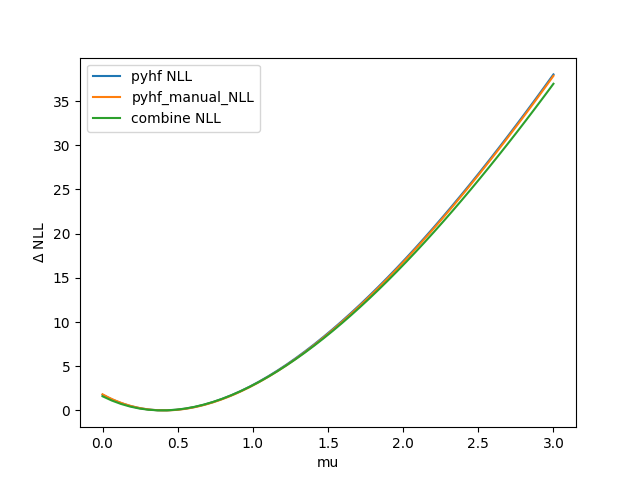
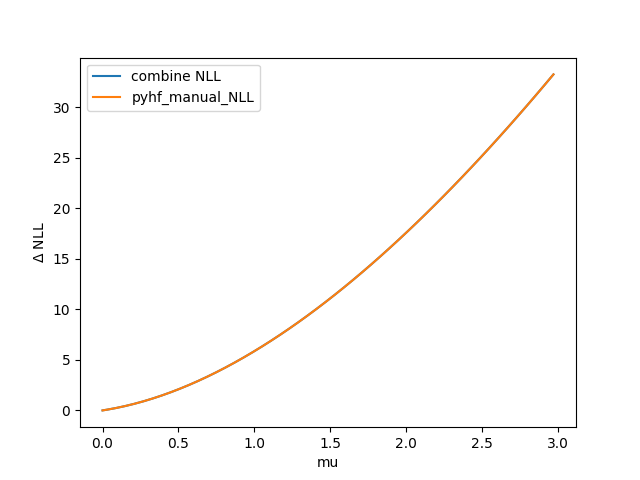
matching NLL plots

diff --git a/Converters/pyhf_convert_to_datacard.py b/Converters/pyhf_convert_to_datacard.py
@@ -66,12 +66,12 @@ def addChannels():
             h_data[...] = np.stack(
                 [
                     spec["observations"][idxc]["data"],
-                    [0 for i in range(channel_bins[channel])],
+                    [0 for i in range(channel_bins[channel["name"]])],
                 ],
                 axis=-1,
             )
             
-            file[channel+ "/data_obs"] = h_data
+            file[channel["name"]+ "/data_obs"] = h_data
 
 
 def addSamples():
@@ -85,7 +85,7 @@ def addSamples():
                     }
                 )
         else:  ##shapes
-            DC.shapeMap.update({channel: {}})
+            DC.shapeMap.update({channel["name"]: {}})
             DC.hasShapes = True
             for idxs, sample in enumerate(channel["samples"]):
                 DC.exp[channel["name"]].update(
@@ -96,31 +96,31 @@ def addSamples():
                     for i, mod in enumerate(spec["channels"][idxc]["samples"][idxs]["modifiers"])
                 ]
                 if "histosys" in mods:
-                    DC.shapeMap[channel].update(
+                    DC.shapeMap[channel["name"]].update(
                         {
                             spec["channels"][idxc]["samples"][idxs]["name"]: [
                                 options.shapefile,
-                                channel+
+                                channel["name"]+
                                 "/" + spec["channels"][idxc]["samples"][idxs]["name"],
-                                channel+
+                                channel["name"]+
                                 "/" + spec["channels"][idxc]["samples"][idxs]["name"]
                                 + "_$SYSTEMATIC",
                             ]
                         }    
                     )
                 else:
-                    DC.shapeMap[channel].update(
+                    DC.shapeMap[channel["name"]].update(
                         {
                             spec["channels"][idxc]["samples"][idxs]["name"]: [
                                 options.shapeFile,
-                                channel+
+                                channel["name"]+
                                 "/" + spec["channels"][idxc]["samples"][idxs]["name"]
                                 ]
                         }
                     )
                 if "staterror" in mods:
                     h_data = hist.Hist.new.Regular(
-                        channel_bins[channel], 0, channel_bins[channel]
+                        channel_bins[channel["name"]], 0, channel_bins[channel["name"]]
                     ).Weight()
                     h_data[...] = np.stack(
                         [
@@ -131,10 +131,10 @@ def addSamples():
                         ],
                         axis=-1,
                     )
-                    DC.binParFlags.update({channel : True})
+                    DC.binParFlags.update({channel["name"] : True})
                 elif "shapesys" in mods:
                     h_data = hist.Hist.new.Regular(
-                        channel_bins[channel], 0, channel_bins[channel]
+                        channel_bins[channel["name"]], 0, channel_bins[channel["name"]]
                     ).Weight()
                     h_data[...] = np.stack(
                         [
@@ -145,19 +145,19 @@ def addSamples():
                         ],
                         axis=-1,
                     )
-                    DC.binParFlags.update({channel : True})
+                    DC.binParFlags.update({channel["name"] : True})
                 else:
                     h_data = hist.Hist.new.Regular(
-                        channel_bins[channel], 0, channel_bins[channel]
+                        channel_bins[channel["name"]], 0, channel_bins[channel["name"]]
                     ).Weight()
                     h_data[...] = np.stack(
                         [
                             spec["channels"][idxc]["samples"][idxs]["data"],
-                            [0 for i in range(channel_bins[channel])],
+                            [0 for i in range(channel_bins[channel["name"]])],
                         ],
                         axis=-1,
                     )
-                file[channel+  "/" + spec["channels"][idxc]["samples"][idxs]["name"]] = h_data
+                file[channel["name"]+  "/" + spec["channels"][idxc]["samples"][idxs]["name"]] = h_data
 
 
 def addMods():
@@ -191,7 +191,7 @@ def addMods():
                             {sample["name"]: str(mods[names.index(name)]["data"]["lo"]) + "/" + str(mods[names.index(name)]["data"]["hi"])} ##asymmetric lnN
                         )
                     if "shape" in type:
-                        syst[4][channel["name"]].update({sample: 1.0})
+                        syst[4][channel["name"]].update({sample["name"]: 1.0})
                         hi_data = hist.Hist.new.Regular(
                         channel_bins[channel["name"]], 0, channel_bins[channel["name"]]
                         ).Weight()
@@ -212,8 +212,8 @@ def addMods():
                         ],
                         axis=-1,
                         )
-                        file[channel+  "/" + spec["channels"][idxc]["samples"][idxs]["name"] + "_" + name + "Up"] = hi_data
-                        file[channel+  "/" + spec["channels"][idxc]["samples"][idxs]["name"] + "_" + name + "Down"] = lo_data
+                        file[channel["name"]+  "/" + spec["channels"][idxc]["samples"][idxs]["name"] + "_" + name + "Up"] = hi_data
+                        file[channel["name"]+  "/" + spec["channels"][idxc]["samples"][idxs]["name"] + "_" + name + "Down"] = lo_data
 def addSignal():
     signalMods = []
     for modifier in modifiers:
@@ -248,9 +248,10 @@ def writeDataCard(path):
         f.write("jmax " + str(size(DC.processes)- size(DC.signals))+ "\n") 
         f.write("kmax " + str(size(DC.systs, 0))+ "\n")  
         if DC.hasShapes:
+            f.write("shape  data_obs "  + " " + channel + "  " + DC.shapeMap[channel][sample][0] + "  " + DC.shapeMap[channel][sample][1] +"\n")    
             for channel in DC.shapeMap.keys():
                 for sample in DC.shapeMap[channel].keys():
-                    f.write("shape " + sample + " " + channel + " " + DC.shapeMap[channel][sample][0] + " " + DC.shapeMap[channel][sample][1] + " " + DC.shapeMap[channel][sample][2] + "\n")    
+                    f.write("shape " + sample + "  " + channel + "  " + DC.shapeMap[channel][sample][0] + "  " + DC.shapeMap[channel][sample][1] + "  " + DC.shapeMap[channel][sample][2] + "\n")    
         f.write('\n---------------------------------\n') 
         f.write("bin ")
         for bin in DC.obs.keys():
@@ -282,7 +283,7 @@ def writeDataCard(path):
         for channel in DC.bins:
             for sample in DC.exp[channel].keys():
                 
-                f.write(str(DC.exp[channel][sample][0]) + "     ")
+                f.write(str(DC.exp[channel][sample]) + "     ")
         f.write('\n---------------------------------\n') 
         for syst in DC.systs:
             f.write(syst[0] + "  " + syst[2] + "  ")

diff --git a/Converters/Stat_testing/to_pyhf_test.py b/Converters/Stat_testing/to_pyhf_test.py
@@ -24,28 +24,29 @@ poi_values = np.linspace(0, 3, 50).tolist()
 nuisances = model.config.suggested_init()[1:]
 NLL = []
 for poi in poi_values:
-    NLL.append(-1*(model.logpdf(pars=[poi], data=observations))-35.91)
+    NLL.append(-1*(model.logpdf(pars=[poi] + nuisances, data=observations))-35.91)
 ##plt.plot(poi_values, NLL, label = "pyhf NLL")
-
-mu_values = np.linspace(0, 3, 250)
-nlls = []
-for mu in mu_values:
-    nll = 0
-    rates_per_bin = model.expected_data(mu, include_auxdata=False)
-    for i, bin_rate in enumerate(rates_per_bin):
-        # build up negative log likelihood as sum over log Poisson likelihoods per bin
-        nll +=  -scipy.stats.poisson.logpmf(observations[i], bin_rate)
-    nlls.append(nll)
-nlls = nlls - min(nlls)  # offset to set minimum to zero
-plt.plot(mu_values, nlls, label = "pyhf_manual_NLL")
-plt.xlabel("mu")
-plt.ylabel("$\Delta$ NLL")
 
 file = uproot.open('higgsCombineTest.MultiDimFit.mH120.root')
 tree = file['limit']
 branches = tree.arrays()
-plt.plot(np.linspace(0, 3, 50), branches['deltaNLL'][1:], label  = "combine NLL")
+plt.plot(branches['r'], branches['deltaNLL'], label  = "combine NLL")
 file.close()
+
+mu_values = branches['r']
+nlls = []
+for mu in mu_values:
+    nll = 0
+    rates_per_bin = model.expected_data([mu] + nuisances, include_auxdata=False)
+    for i, bin_rate in enumerate(rates_per_bin):
+        # build up negative log likelihood as sum over log Poisson likelihoods per bin
+        nll +=  -scipy.stats.poisson.logpmf(observations[i], bin_rate)
+    nlls.append(nll)
+
+nlls = nlls - min(nlls)  # offset to set minimum to zero
+plt.plot(mu_values, nlls, label = "pyhf_manual_NLL")
+plt.xlabel("mu")
+plt.ylabel("$\Delta$ NLL")
 plt.legend()
 
 plt.savefig('NLLplot')
